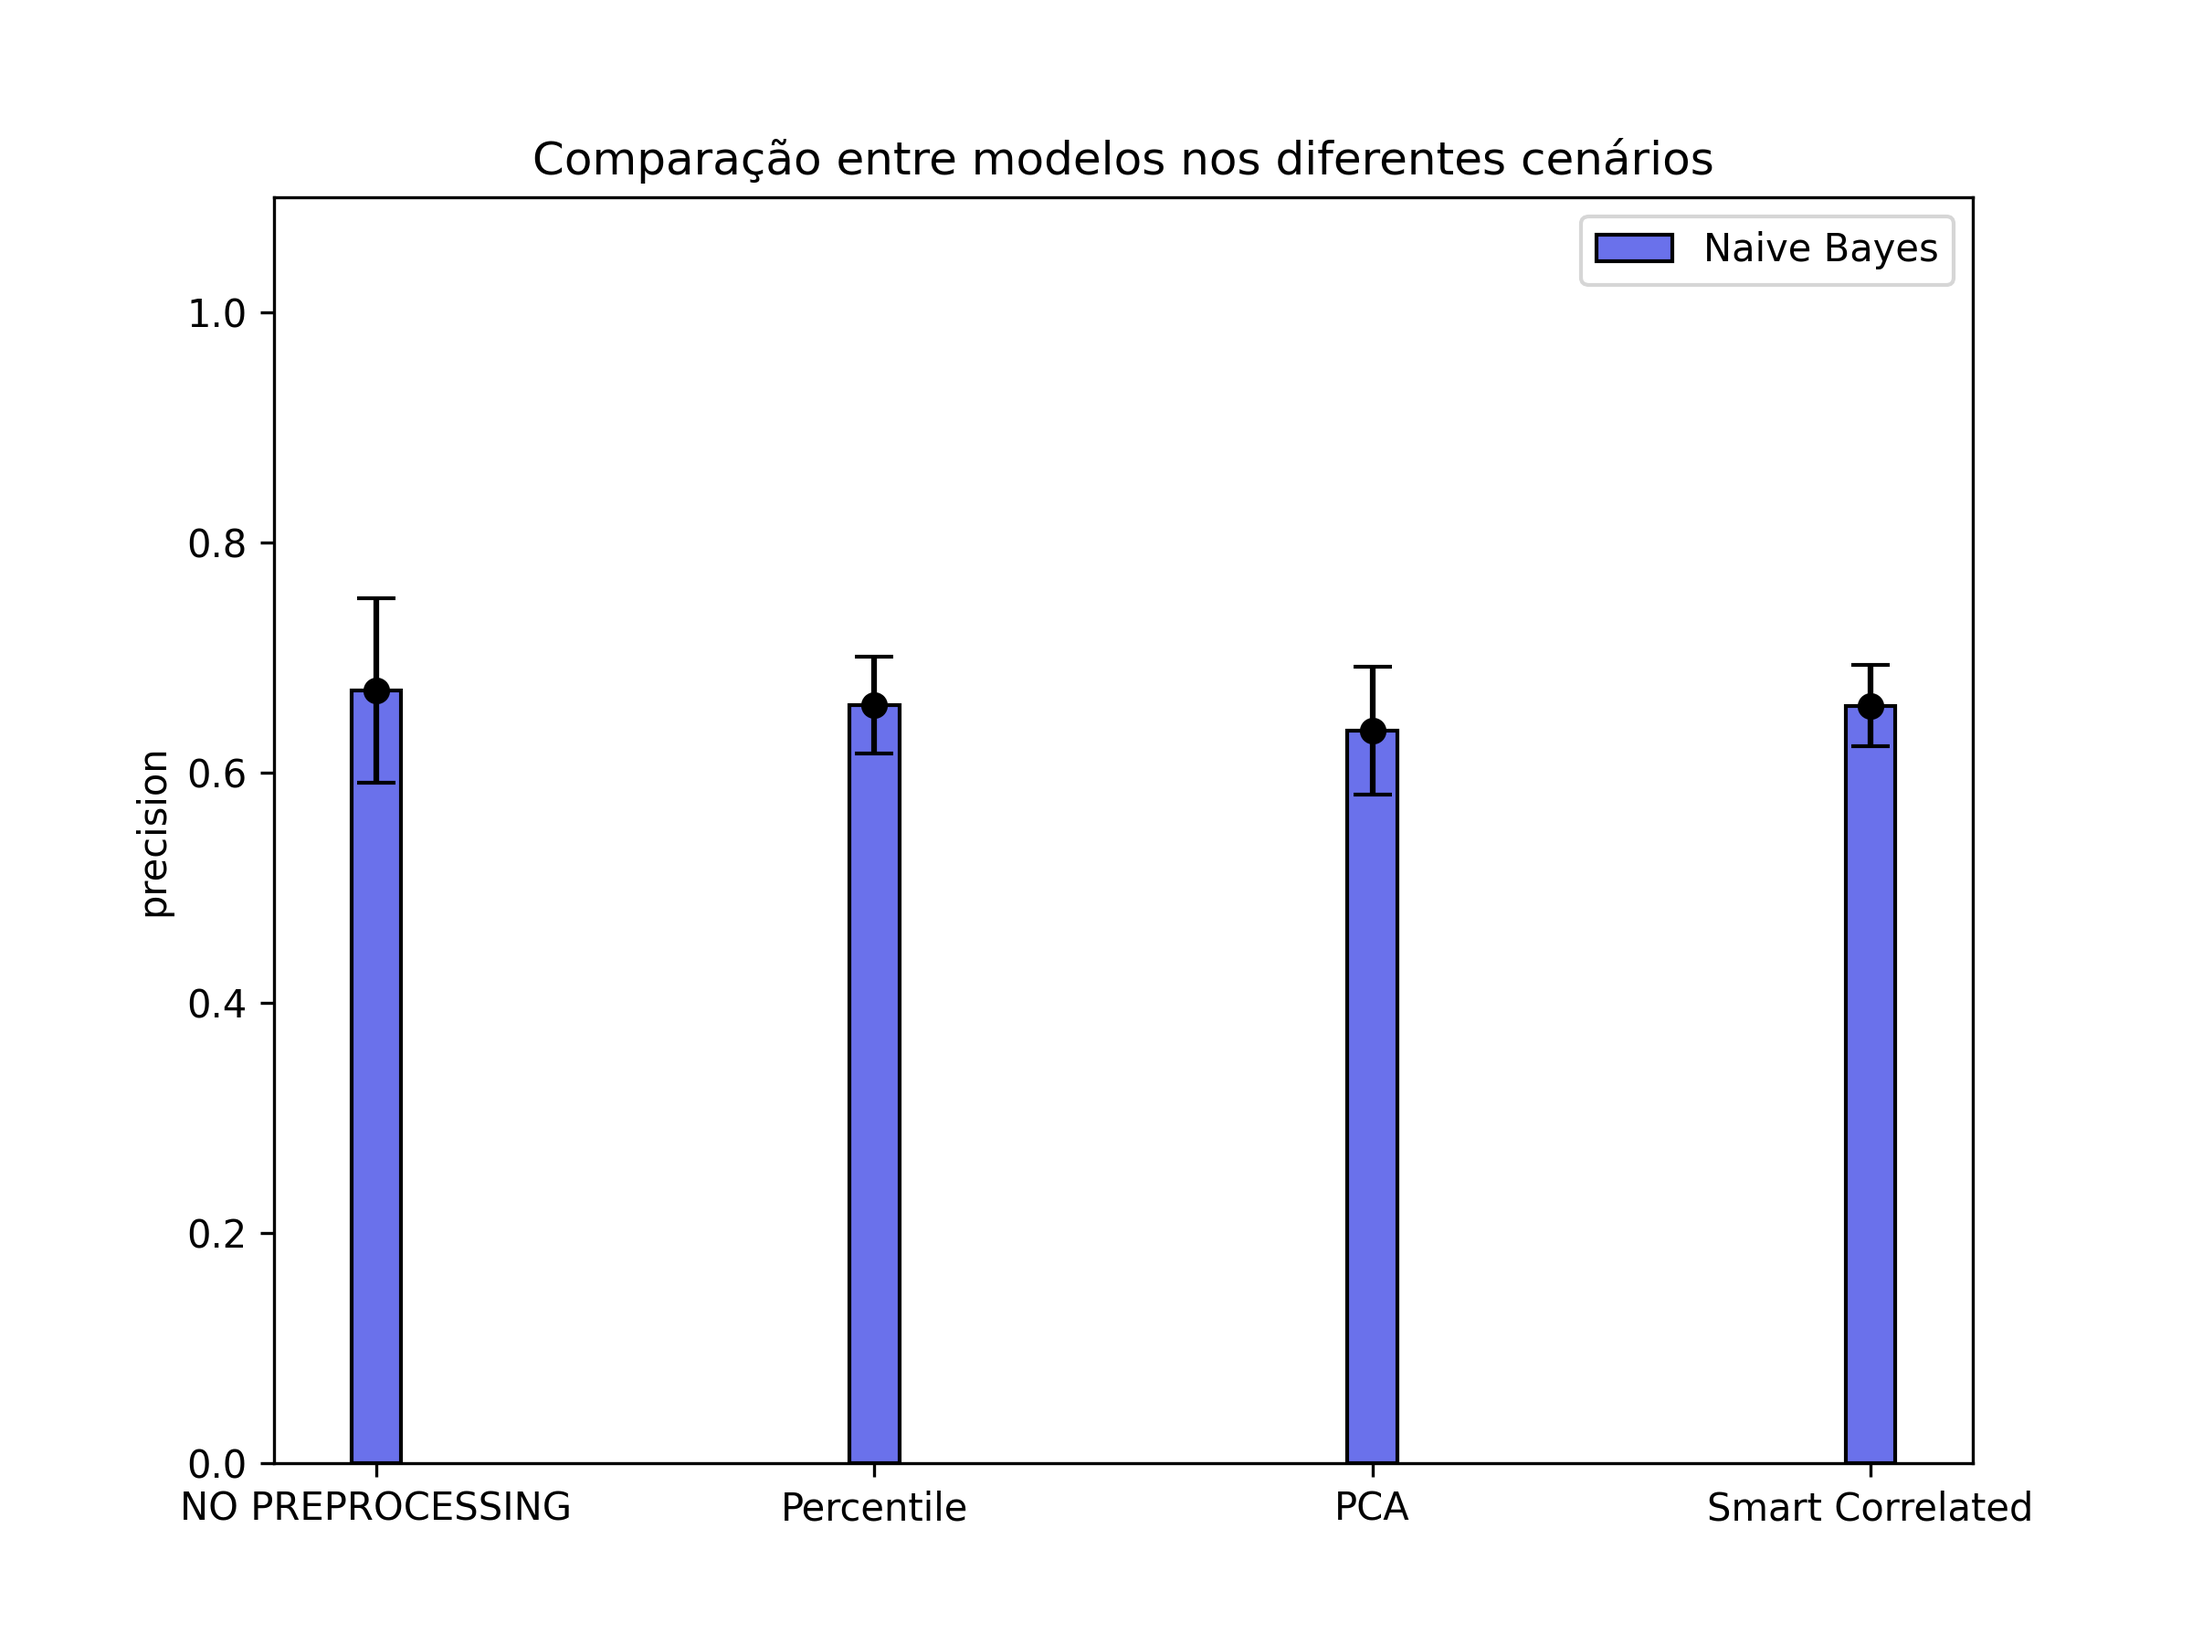
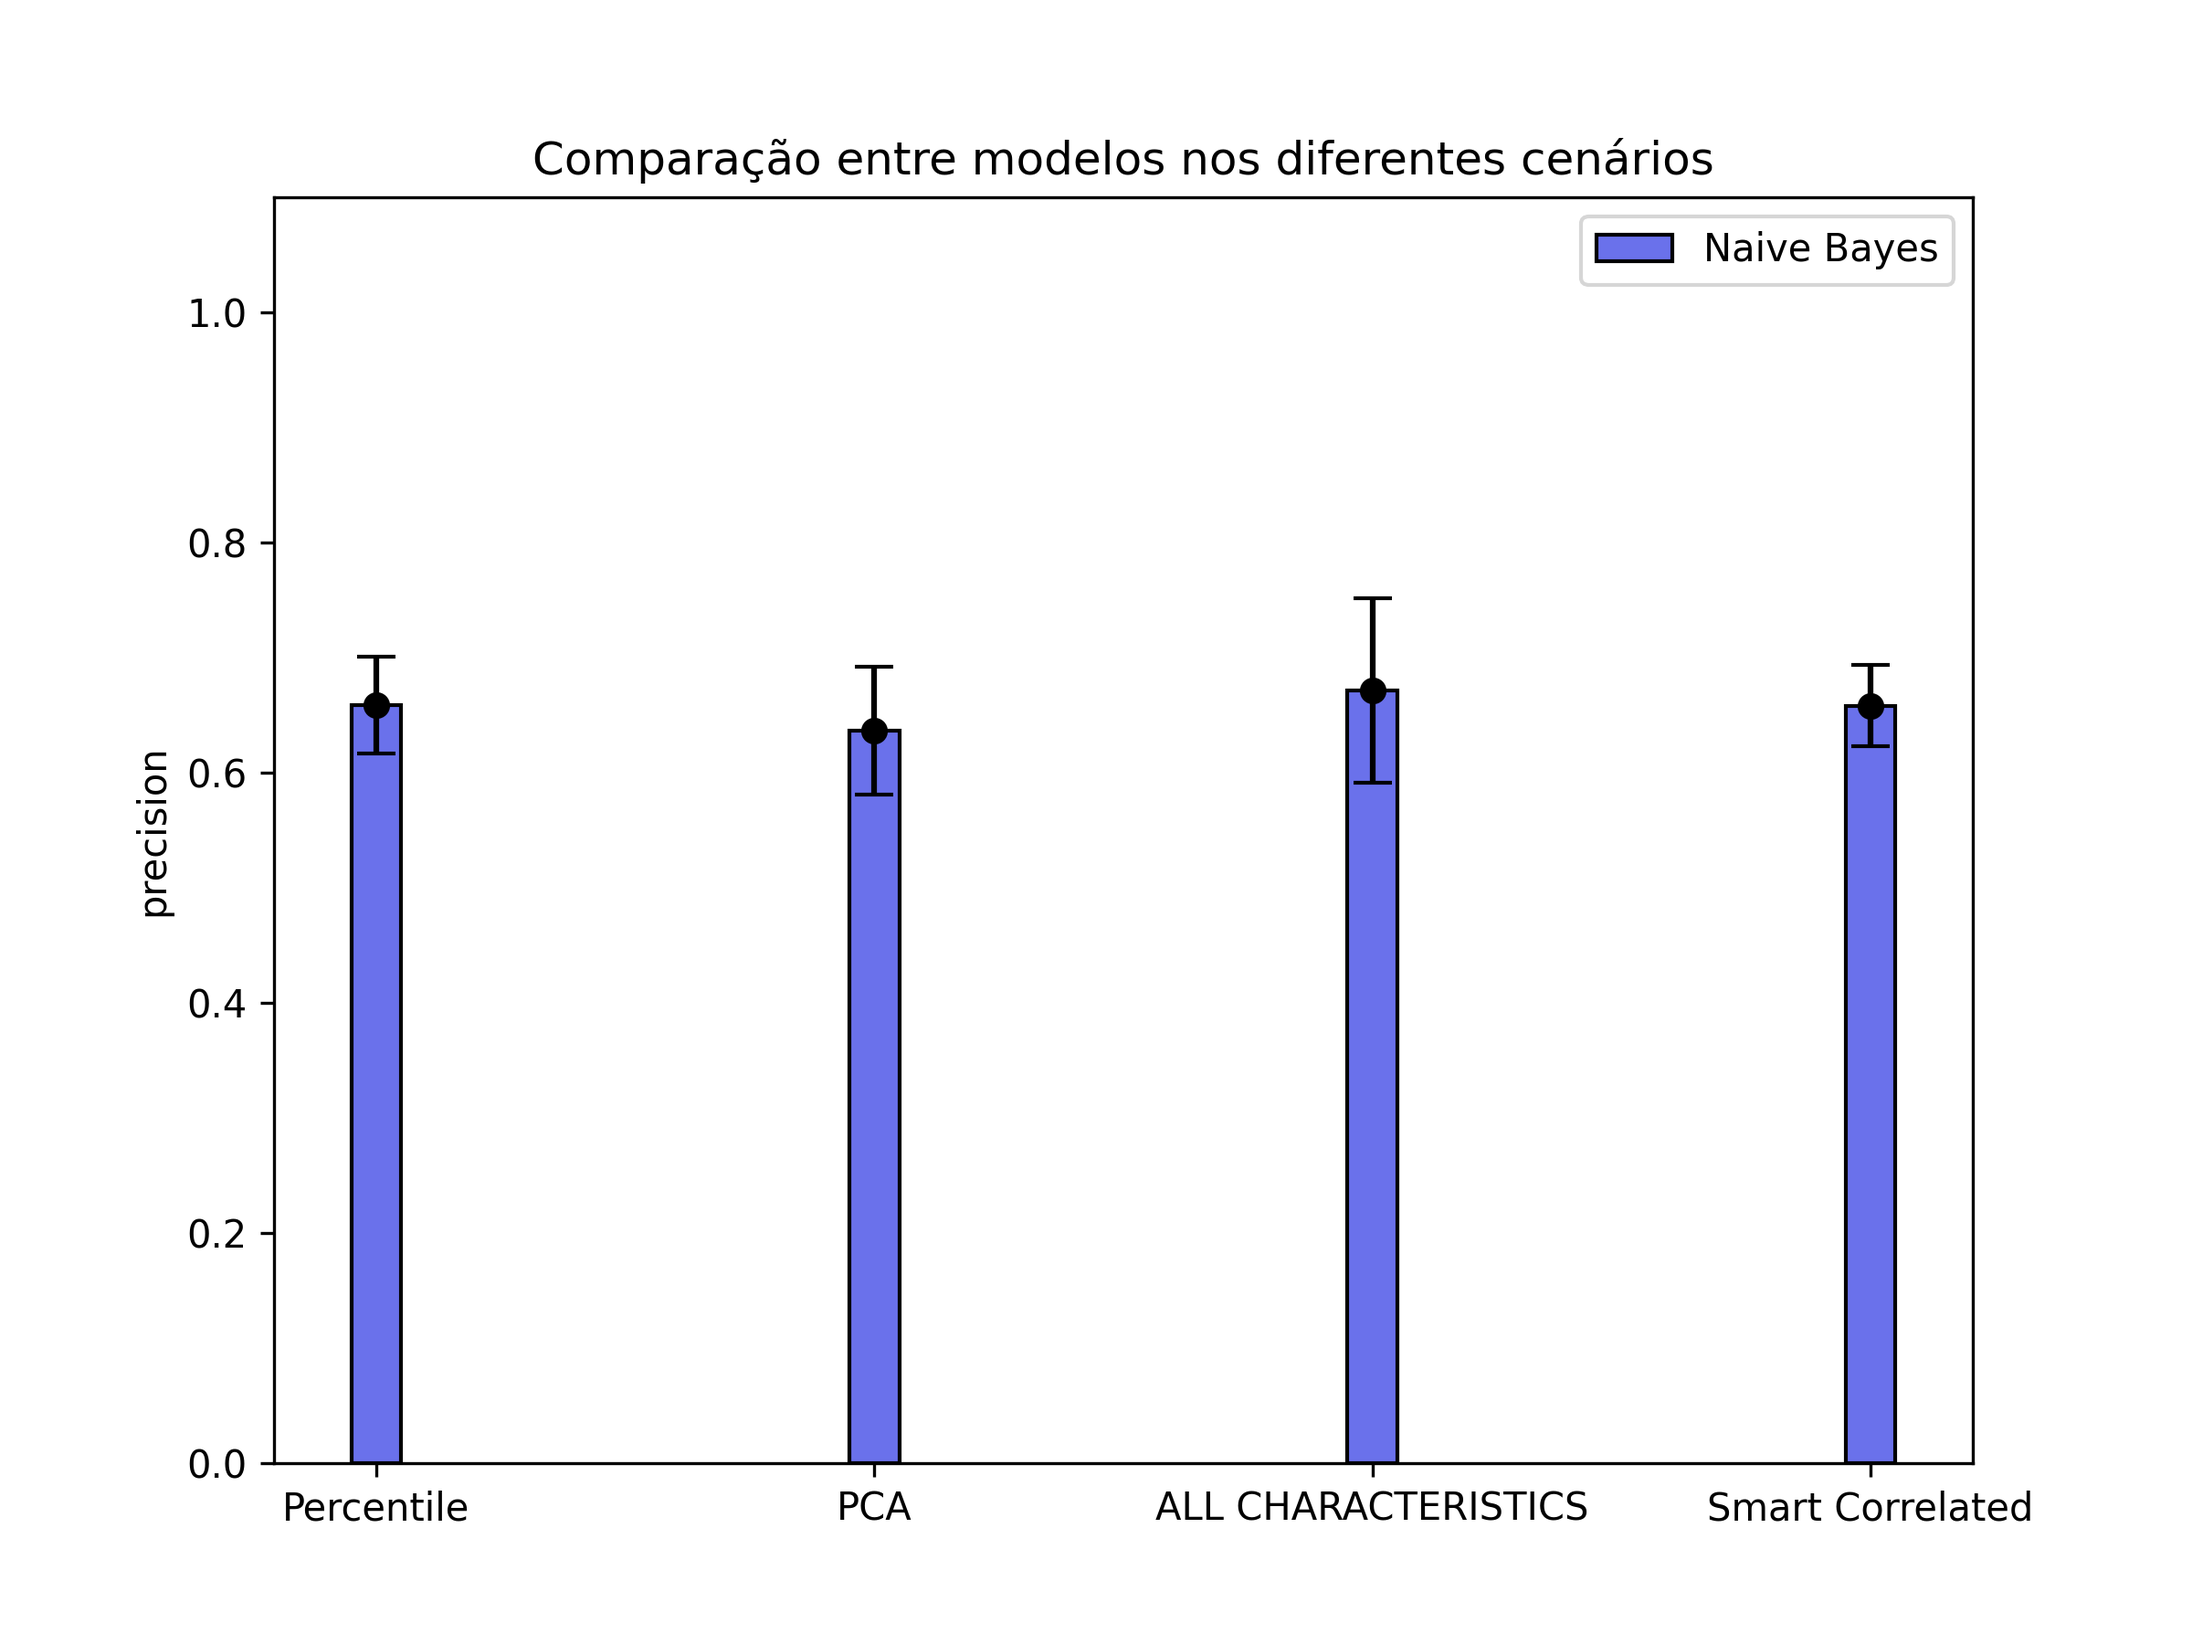
alterando nomenclatura de cenário

diff --git a/src/train/scenarios.py b/src/train/scenarios.py
@@ -19,6 +19,13 @@ class Scenario:
     selection_criteria: str = "f1_score"
 
 
+class AllCharacteristicsScenario(Scenario):
+    name = "ALL CHARACTERISTICS"
+    is_balanced = False
+    feature_selection = "ALL CHARACTERISTICS"
+    metrics = METRICS
+    preprocessing_steps = []
+
 class PCAScenario(Scenario):
     name = "PCA"
     is_balanced = False
@@ -47,16 +54,10 @@ class SmartCorrelated(Scenario):
         ("fs", SmartCorrelatedSelection(selection_method="variance")),
     ]    
 
-class NoPrepScenario(Scenario):
-    name = "NO PREPROCESSING"
-    is_balanced = False
-    feature_selection = "NO PREPROCESSING"
-    metrics = METRICS
-    preprocessing_steps = []
 
 
 SCENARIOS = [
-    NoPrepScenario(),
+    AllCharacteristicsScenario(),
     PCAScenario(),
     MIScenario(),
     SmartCorrelated(),

diff --git a/src/train/models.py b/src/train/models.py
@@ -16,7 +16,6 @@ class NaiveBayes(Model):
     classifier = GaussianNB()
     param_grid = [{"clf__var_smoothing": [1e-9, 1e-5]}]
 
-
 class RandomForest(Model):
     name = "Random Forest"
     classifier = RandomForestClassifier()
